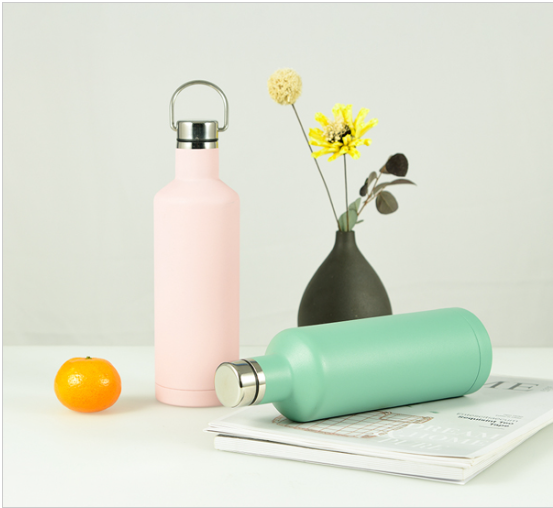
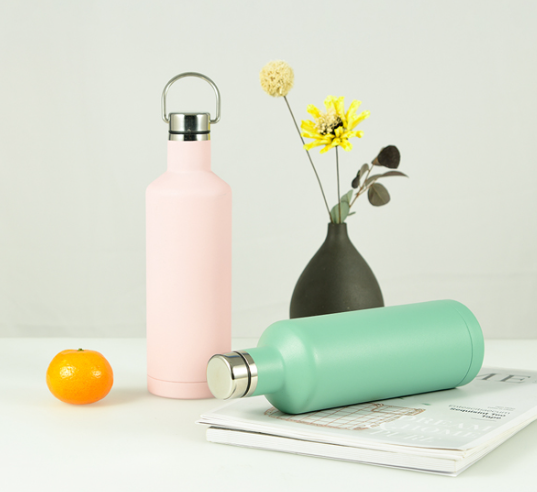
fix picture borders

diff --git a/content/products/water-bottles/YWYM-036P.md b/content/products/water-bottles/YWYM-036P.md
@@ -1,0 +1,22 @@
+---
+title: "Water Bottle YWYM-036P"
+product_type: "water bottle"
+date: 2025-04-01
+cover:
+  image: "/images/products/water-bottles/YWYM-036P.png"
+  gallery:
+    - "/images/products/water-bottles/YWYM-036P/图片2.png"
+    - "/images/products/water-bottles/YWYM-036P/图片3.png"
+    - "/images/products/water-bottles/YWYM-036P/图片4.png"
+    - "/images/products/water-bottles/YWYM-036P/图片5.png"
+draft: false
+---
+**Materiall:** inside pp,outside 201
+**Capacity:** 16oz
+**Surface Finish:** Base on Client Request
+**Products Size (cm):** 8.1×21
+**QTY/CTN (pcs):** 24
+**G.W/N.W (kg):** 6/5
+**Packing Size (cm):** 51×34.5×23
+**Package:** 24
+**Color:** customize
